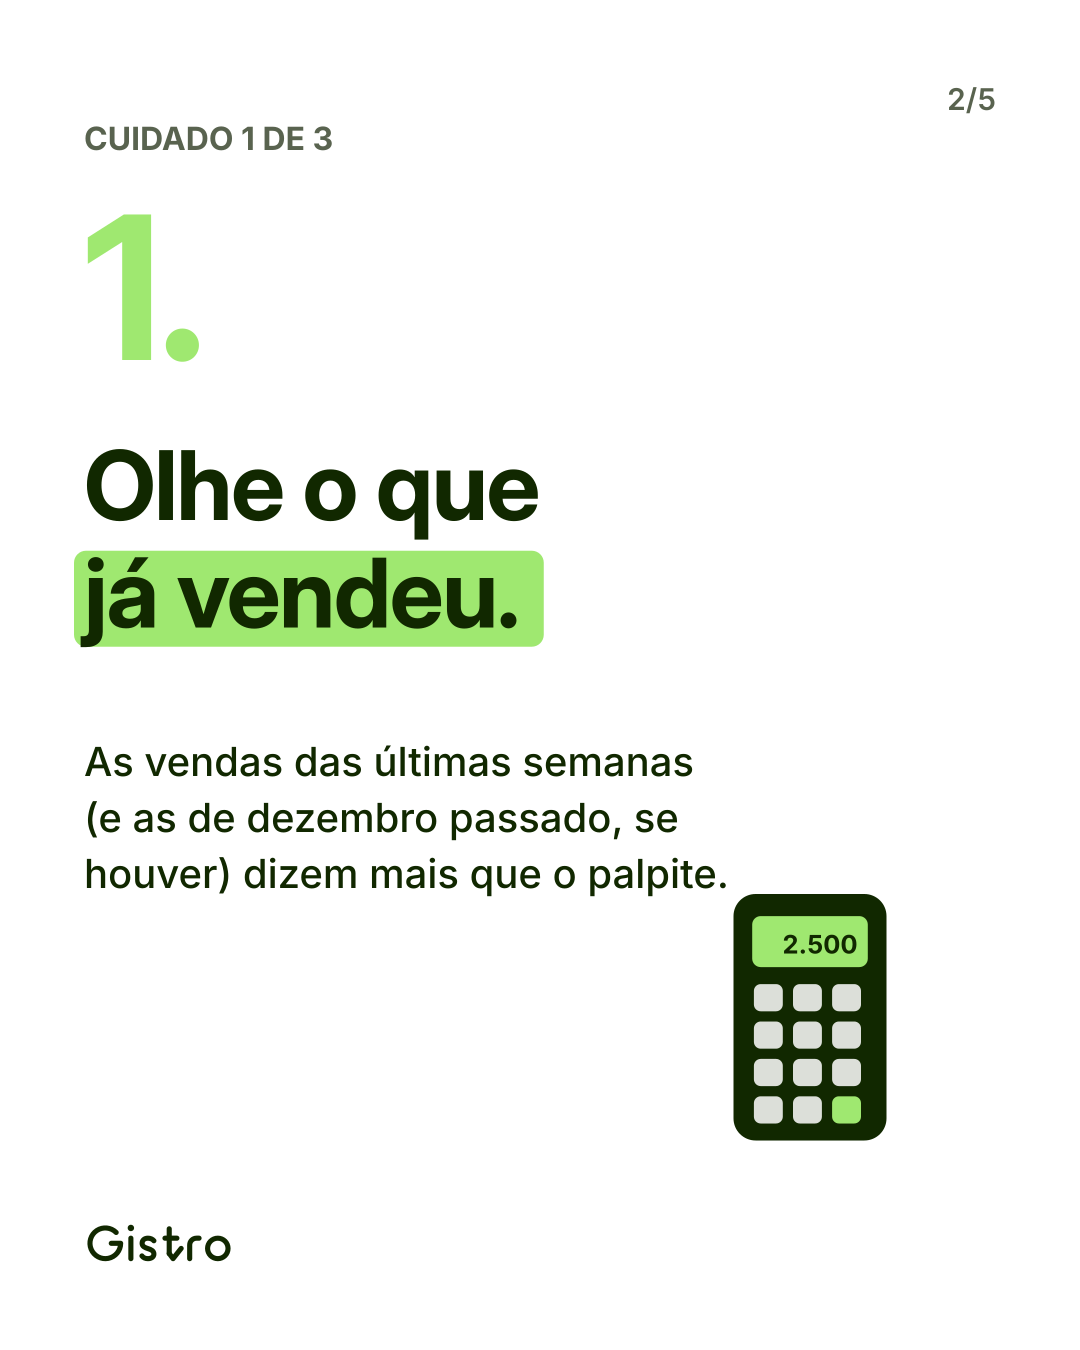
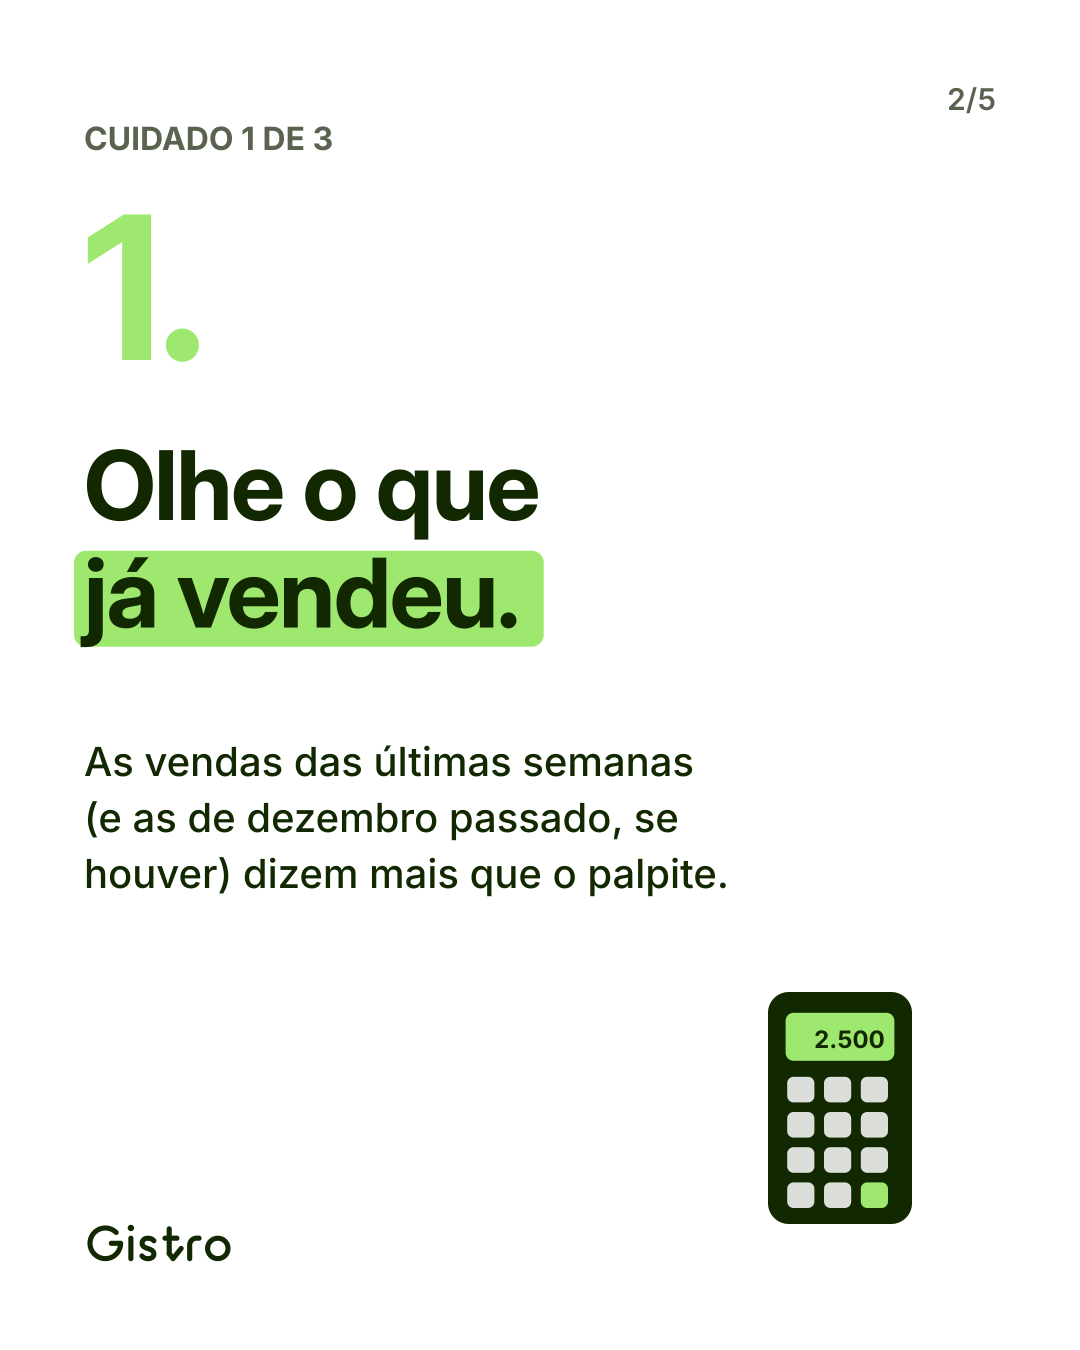
Carrossel de sexta: objetos abaixo do texto
Claude-Session: https://claude.ai/code/session_01LmXHifE9A15j6TCQ916Wt6

Changed region(s): [[0.6722, 0.6533, 0.8556, 0.9333]]

diff --git a/semanas/2026-11-30/carrosseis.py b/semanas/2026-11-30/carrosseis.py
@@ -71,7 +71,7 @@ def cuidado(n, tit, linhas, obj, nome):
     s += titulo(84, 520, tit, 96, destaque=len(tit) - 1)
     y = 520 + len(tit) * 108 + 40
     s += texto(84, y, linhas, 40, INK, 500)
-    s += objeto(obj, 640, 860, 0.85) + assinatura()
+    s += objeto(obj, 680, 960, 0.8) + assinatura()
     salvar(post(s), D + nome)
 
 cuidado(1, ['Olhe o que', 'já vendeu.'], ['As vendas das últimas semanas', '(e as de dezembro passado, se', 'houver) dizem mais que o palpite.'], 'calculadora', 'sexta-2.png')
